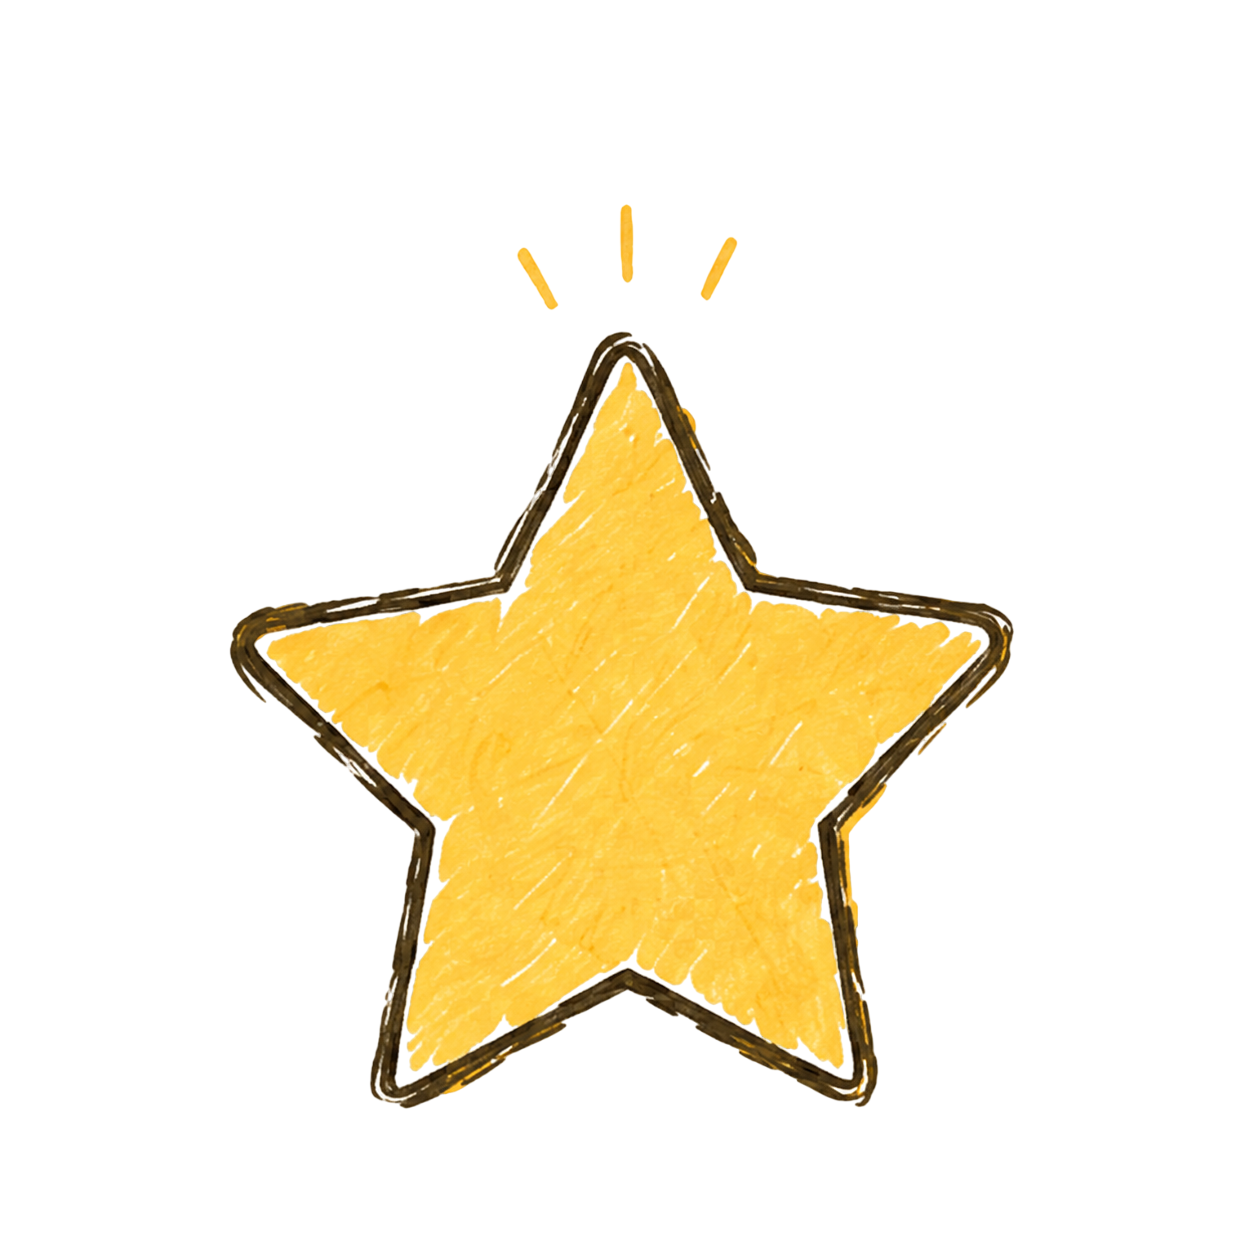
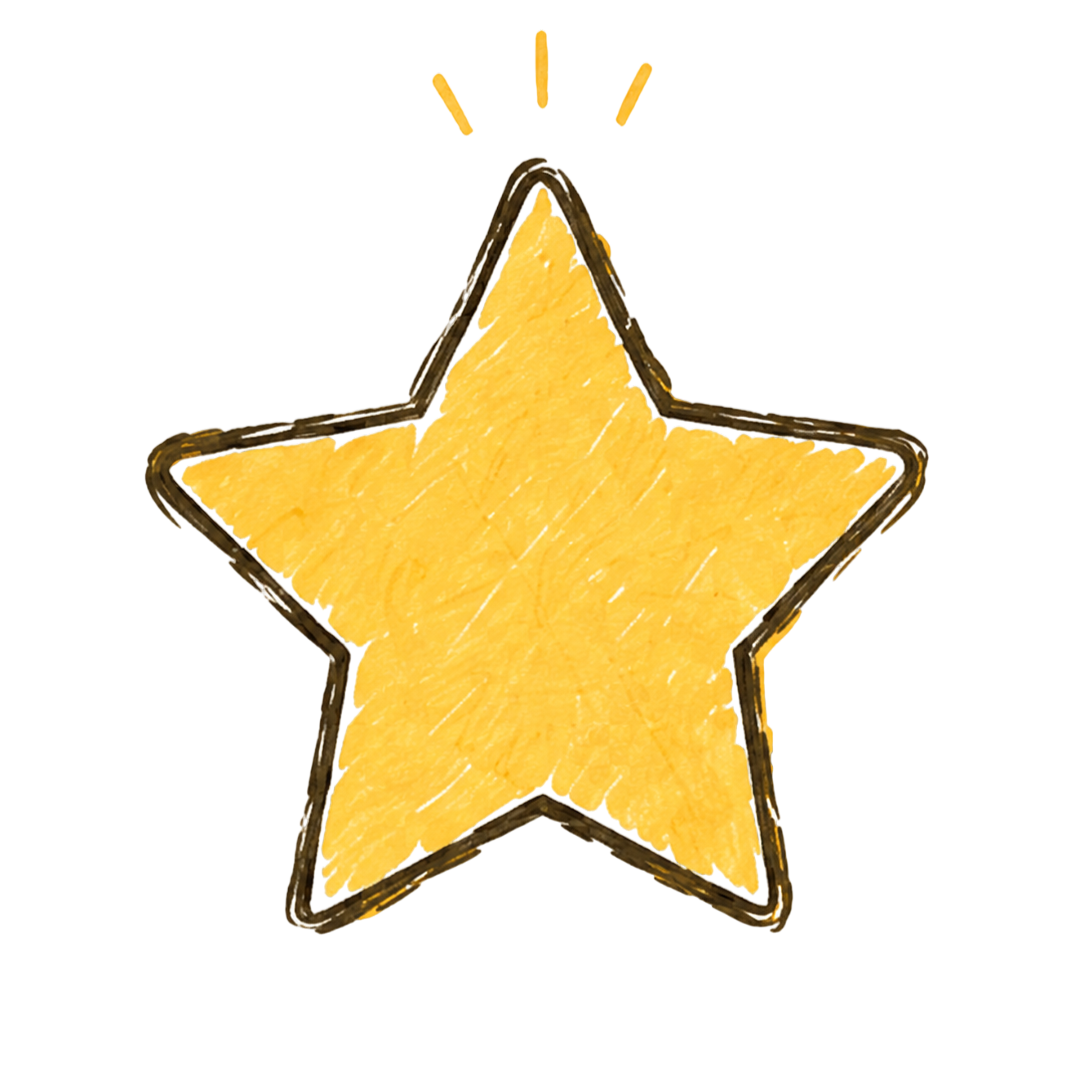
feat: 신뢰도 뱃지 UI 정리

diff --git a/src/views/product/ProductDetailView.vue b/src/views/product/ProductDetailView.vue
@@ -254,7 +254,12 @@ watch(() => route.params.id, () => {
                 />
                 <div class="flex min-w-0 items-center gap-1.5">
                   <p class="truncate font-bold text-ink">{{ product.sellerNickname }}</p>
-                  <TrustBadge :score="product.sellerTrustScore ?? 50" size="xs" />
+                  <!-- 상품 상세 이름 옆 별 위치 조절: class의 ml/mt 값만 바꾸면 됩니다. -->
+                  <TrustBadge
+                    :score="product.sellerTrustScore ?? 50"
+                    size="xs"
+                    class="-ml-1 -mt-1"
+                  />
                 </div>
               </div>
               <template v-if="authStore.user?.id === product.sellerId">
@@ -326,7 +331,12 @@ watch(() => route.params.id, () => {
             />
             <div class="flex min-w-0 items-center gap-1.5">
               <p class="truncate font-bold text-ink">{{ product.sellerNickname }}</p>
-              <TrustBadge :score="product.sellerTrustScore ?? 50" size="xs" />
+              <!-- 상품 상세 이름 옆 별 위치 조절: class의 ml/mt 값만 바꾸면 됩니다. -->
+              <TrustBadge
+                :score="product.sellerTrustScore ?? 50"
+                size="xs"
+                class="-ml-1 -mt-1"
+              />
             </div>
           </div>
           <template v-if="authStore.user?.id === product.sellerId">

diff --git a/src/components/user/UserProfileAvatar.vue b/src/components/user/UserProfileAvatar.vue
@@ -194,9 +194,14 @@ defineExpose({ openProfile })
                 <UserCircleIcon v-else class="h-16 w-16" />
               </div>
 
-              <h3 class="mt-4 flex items-center justify-center gap-2 text-2xl font-extrabold text-ink">
+              <h3 class="mt-4 flex items-center justify-center gap-1 text-2xl font-extrabold text-ink">
                 <span>{{ displayNickname }}</span>
-                <TrustBadge :score="profile?.trustScore ?? 50" size="md" />
+                <!-- 프로필 모달 이름 옆 별 위치 조절: class의 ml/mt 값만 바꾸면 됩니다. -->
+                <TrustBadge
+                  :score="profile?.trustScore ?? 50"
+                  size="md"
+                  class="-ml-1 -mt-2"
+                />
               </h3>
               <p class="mt-2 rounded-full border border-ink bg-[#ffe066]/60 px-3 py-1 text-xs font-bold text-ink">
                 {{ profile?.cohort || '-' }}
@@ -223,6 +228,7 @@ defineExpose({ openProfile })
                   <ShieldCheckIcon class="h-3.5 w-3.5 shrink-0 text-primary" />
                   <span class="text-xs font-bold text-[#8c7e6e]">신뢰도</span>
                 </div>
+                <!-- 큰 신뢰도 영역 별은 중앙 정렬 유지용이라 위치 class를 주지 않았습니다. -->
                 <TrustBadge :score="profile?.trustScore ?? 50" size="lg" />
               </div>
 

diff --git a/src/views/user/MyPageView.vue b/src/views/user/MyPageView.vue
@@ -774,7 +774,7 @@ watch(selectedSaleStatus, () => {
                     >
                       <span>{{ profile.nickname }}</span>
                       <!-- 별 위치 조절: -ml은 왼쪽으로 붙이고, -mt는 위로 올립니다. 숫자를 키우면 더 많이 이동합니다. -->
-                      <TrustBadge :score="profileData.trustScore" size="sm" class="-ml-1 -mt-5" />
+                      <TrustBadge :score="profileData.trustScore" size="sm" class="-ml-1 -mt-1" />
                     </h3>
                     <div class="mt-2 flex flex-wrap items-center gap-2 justify-center sm:justify-start">
                       <span
